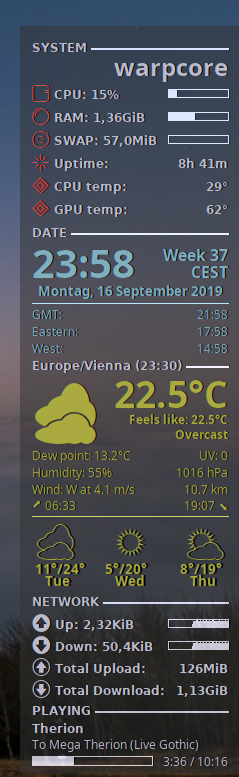
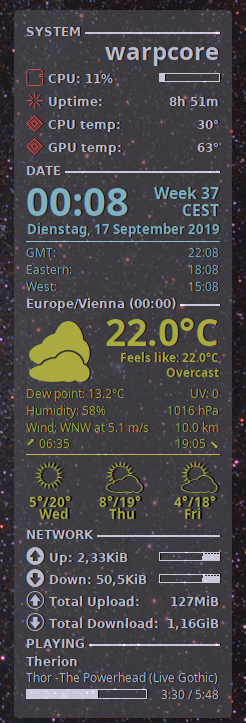
update readme #2

diff --git a/README.md b/README.md
@@ -11,6 +11,10 @@ default, darksky-d outputs to stdout so redirect to >weather
 
 ## How does it look?
 
+Note the shot shows the version I use, it's compact, some lines are missing but you can easily add 
+memory and swap information by un-commenting them in `conkyrc`. Same is true for "per CPU" load 
+values.
+
 ![Screenshot](screenshot.png)
 
 ## Default directory
